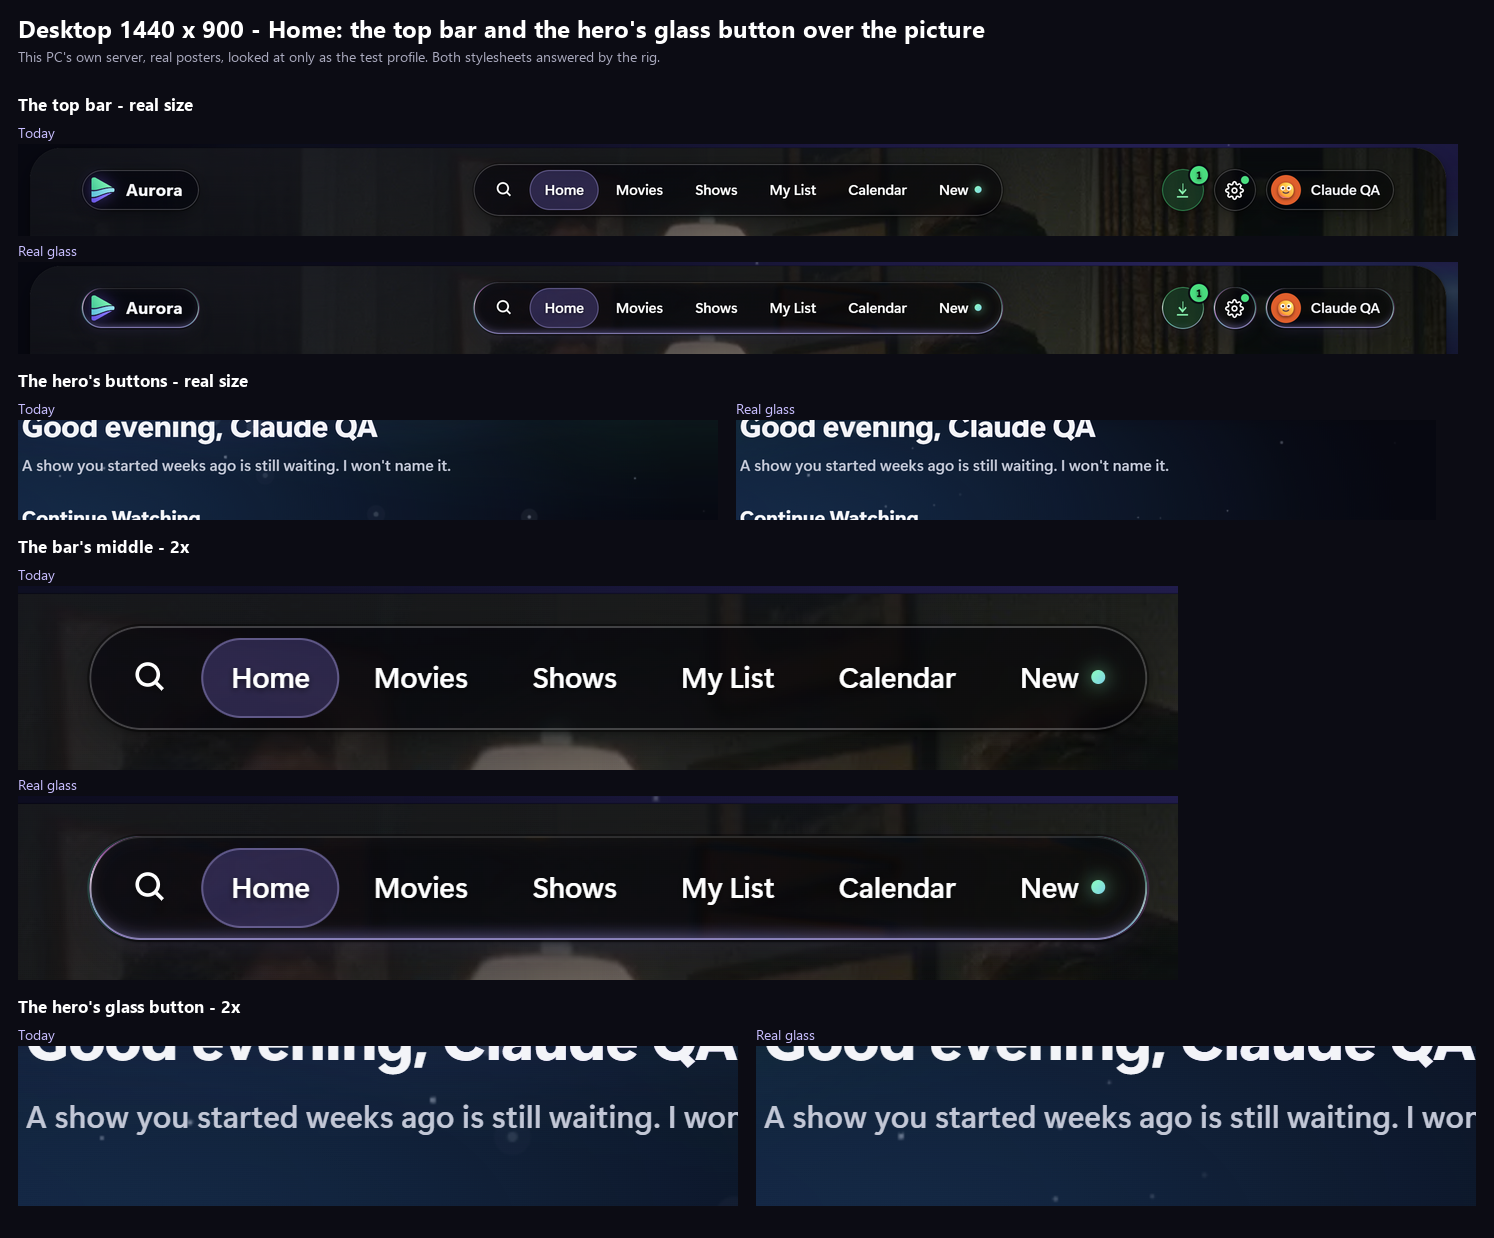
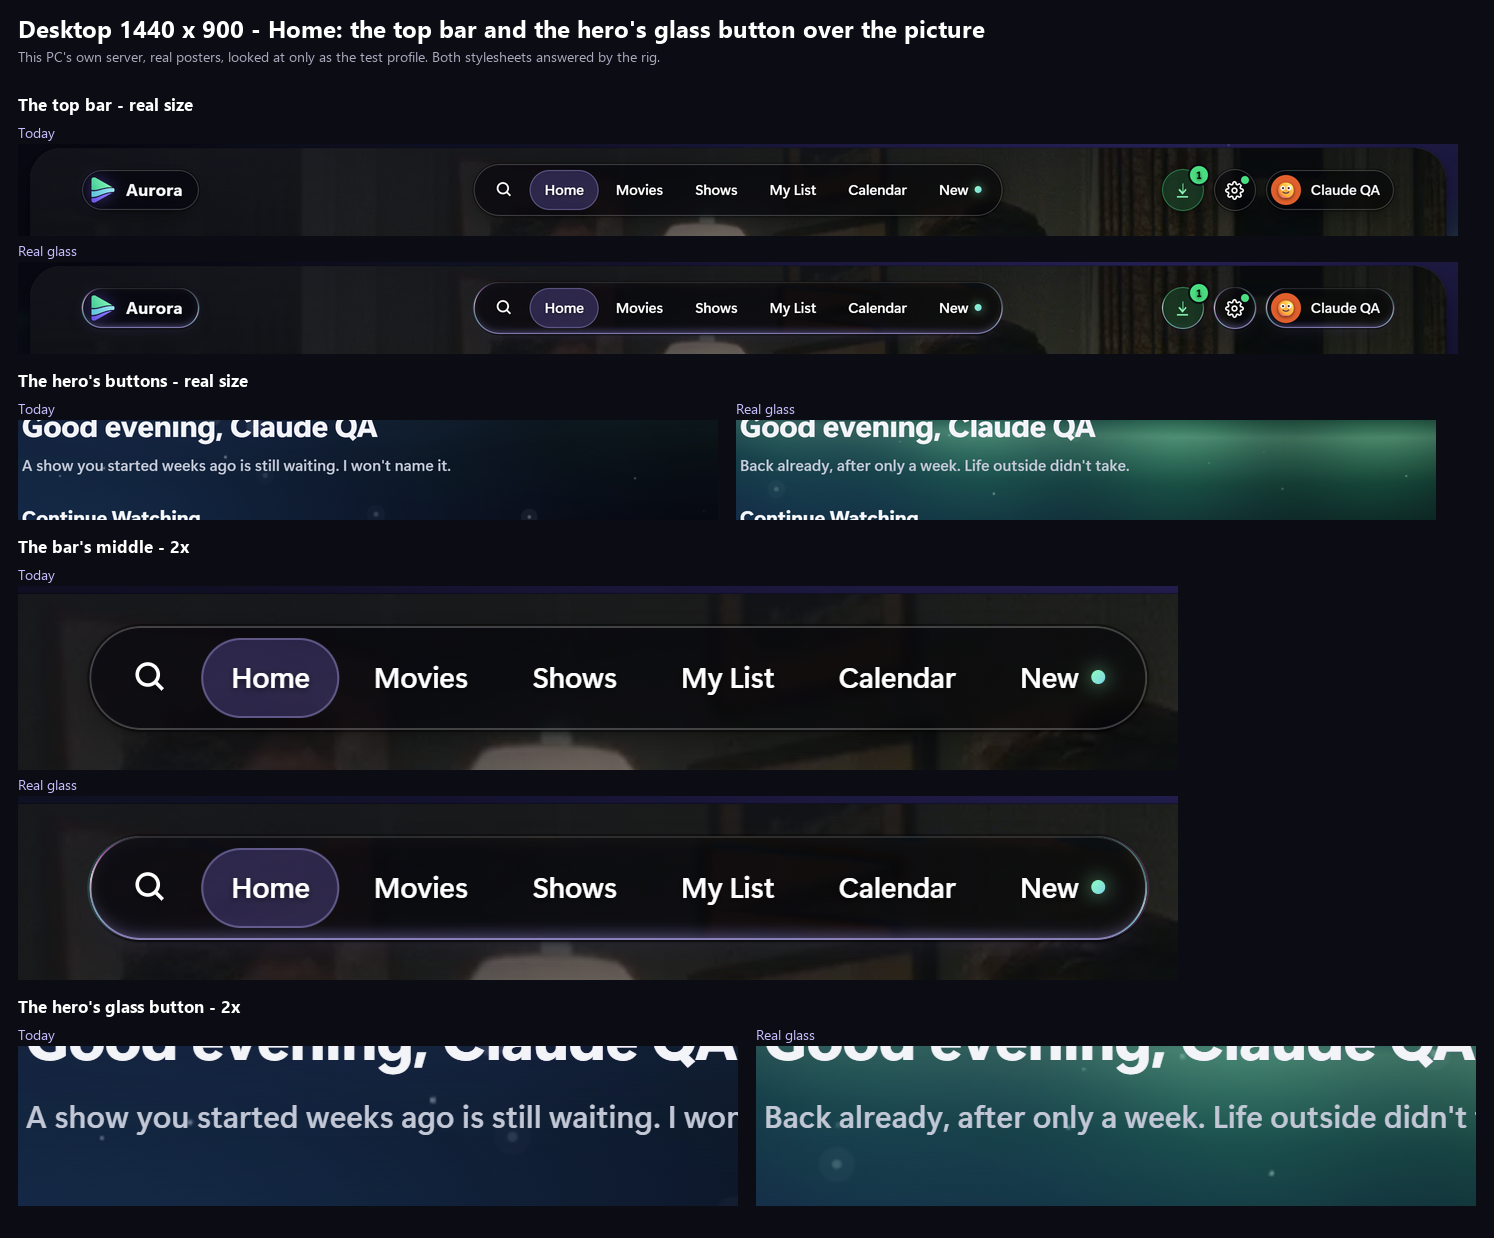
Real glass: a closed player arms no timers; the resting paused glass keeps its frost and dim; the desktop bar's view set less to one side; notes

Changed region(s): [[0.4926, 0.8288, 1.0, 0.9822], [0.4926, 0.3376, 0.9853, 0.4297], [0.9545, 0.2149, 0.9853, 0.2456]]

diff --git a/public/css/glass.css b/public/css/glass.css
@@ -6051,6 +6051,13 @@ html[data-look="glass"] {
 html[data-look="glass"] .nav-items {
   --rg-thick: 1.4;
 }
+/* (a desktop's bar: the view set a little less to one side — at 9 the
+   posters' lettering stood doubled right behind "Calendar" and "New") */
+@media (min-width: 721px) {
+  html[data-look="glass"] .nav-items {
+    --rg-shift: 6.5;
+  }
+}
 /* the bar's body gathers a little more light along its foot */
 html[data-look="glass"] .nav-items {
   --rg-body:
@@ -6162,6 +6169,13 @@ html[data-look="glass"][data-lens] .nav-items,
 html[data-look="glass"][data-lens] .hero-actions .btn:not(.btn-primary) {
   --g-blur: blur(var(--rg-soft)) var(--rg-lens, url(#rg-0)) var(--rg-post);
 }
+@media (min-width: 721px) {
+  html[data-look="glass"][data-lens] .player.is-paused.glass-rest .player-bottom,
+  html[data-look="glass"][data-lens] .player.is-paused.glass-rest .player-top > div,
+  html[data-look="glass"][data-lens] .player.is-paused.glass-rest .player-top .pbtn {
+    --g-blur: blur(var(--rg-soft)) saturate(2) brightness(0.44);
+  }
+}
 /* (No lens under a desktop's pointer: it was tried. The app's own hover
    look fills the button — the round ones turn white — so a lens under the
    pointer cannot be seen.) */
@@ -6171,7 +6185,9 @@ html[data-look="glass"][data-lens] .hero-actions .btn:not(.btn-primary) {
    is worked out again each time: with it the page's processes used 2.8 s
    of processor time in 8 s of playing against 0.74 s without
    (tools/real-glass/player-cost.js). And it rests after ten seconds of
-   nothing moving (.glass-rest): the film stands still, but the page behind
+   nothing moving (.glass-rest: the same frost and the same dim, only the
+   bend goes — the controls stay up while a film is paused, and nothing
+   may jump in front of the person): the film stands still, but the page behind
    the player does not — the sky's two washes (html::before, ::after) and the
    "new" dot's breathing keep the browser drawing frames, and a lens is
    worked out again for each. A phone never blurs the player's chrome, so it

diff --git a/test/glasslens.test.js b/test/glasslens.test.js
@@ -107,6 +107,15 @@ test("the stylesheet shows a url() backdrop only under html[data-lens], and the 
   }
   // the small buttons never take it (nothing but the lists above is in a lens rule)
   for (const x of [".nav-gear", ".nav-dl", ".nav-remote", ".nav-logo", ".nav-profile", ".detail-actions"]) assert.ok(!new RegExp(`\[data-lens\][^{]*\${x}[^{]*\{[^}]*--rg-lens`).test(css), `${x} has no lens`);
+  // the map is a data: image (a CSP img-src without data: would break the lens): said where it is made
+  assert.match(js, /toDataURL\("image\/png"\)/);
+  assert.match(js, /img-src left out data:/);
+  // a resting paused player keeps its frost and its dim: only the url() goes
+  assert.match(css, /\.player\.is-paused\.glass-rest \.player-bottom,[\s\S]{0,400}--g-blur: blur\(var\(--rg-soft\)\) saturate\(2\) brightness\(0\.44\);/);
+  // a closed player arms no timers: its last `pause` arrives after the clean-up
+  const player = fs.readFileSync(path.join(__dirname, "..", "public", "js", "screens", "player.js"), "utf-8");
+  const sc = player.slice(player.indexOf("const showControls = () => {"));
+  assert.ok(sc.indexOf("if (exited) return;") > 0 && sc.indexOf("if (exited) return;") < sc.indexOf("overlay.classList.remove("), "showControls does nothing once the player has been closed");
   // never over a PLAYING film: every lens rule on the player's chrome is under .player.is-paused
   for (const m of css.matchAll(/\[data-lens\]([^{,]*\.(?:player-bottom|player-top|upnext|resume-card|quality-pill|party-pill)[^{,]*)/g)) assert.match(m[1], /\.player\.is-paused/, `a lens over a playing film: ${m[0]}`);
   // and no light along the top of a pane: no positive-y white inset line in the rim

diff --git a/test/ui/glass-lens.test.js b/test/ui/glass-lens.test.js
@@ -128,7 +128,9 @@ ui.test("the player's chrome takes the lens only while the film is paused", asyn
   assert.match(dock.filter, /brightness/, "and still dimmed");
   // ten seconds of nothing moving: the lens rests (the page behind the player still draws frames)
   await page.evaluate(() => document.querySelector(".player").classList.add("glass-rest"));
-  assert.doesNotMatch(await page.evaluate(() => getComputedStyle(document.querySelector(".player-bottom")).backdropFilter), /url\(/, "resting: the plain backdrop");
+  const rest = await page.evaluate(() => getComputedStyle(document.querySelector(".player-bottom")).backdropFilter);
+  assert.doesNotMatch(rest, /url\(/, "resting: no bend");
+  assert.equal(rest.replace(/url\([^)]*\)\s*/, ""), dock.filter.replace(/url\([^)]*\)\s*/, ""), "resting: the same frost and the same dim, so nothing jumps");
   await page.mouse.move(300, 300); await page.mouse.move(320, 320);
   await page.waitForFunction(() => !document.querySelector(".player").classList.contains("glass-rest"), null, { timeout: 4000 });
   // playing again: gone again

diff --git a/public/js/glasslens.js b/public/js/glasslens.js
@@ -192,6 +192,9 @@ const filterFor = (w, h, radius, look) => {
   // docs/qa/real-glass/README.md). The picture bent once per colour copy, the
   // copies put together. Nothing else: its little softening is a plain
   // blur() in the stylesheet, ahead of this filter.
+  // NOTE: the map reaches the filter as a data: image. A Content-Security-
+  // Policy whose img-src left out data: would leave every lens without its
+  // map (test/glasslens.test.js keeps this note honest).
   const f = fe("filter", { id, x: "0", y: "0", width: "100%", height: "100%", "color-interpolation-filters": "sRGB" });
   f.append(fe("feImage", { href: c.toDataURL("image/png"), x: "0", y: "0", width: String(w), height: String(h), preserveAspectRatio: "none", result: "map" }));
   let sum = null;

diff --git a/public/js/screens/player.js b/public/js/screens/player.js
@@ -3596,6 +3596,9 @@ export const renderPlayer = async (root, { id }) => {
   const GLASS_REST_MS = 10000;
   let glassRestTimer = 0;
   const showControls = () => {
+    // (the player has been closed: its last `pause` arrives after the clean-up —
+    // new timers here would hold the closed player and its <video> for ten seconds)
+    if (exited) return;
     overlay.classList.remove("controls-hidden", "hide-cursor", "glass-rest");
     clearTimeout(controlsTimer);
     controlsTimer = setTimeout(hideControls, CONTROLS_IDLE_MS);

diff --git a/docs/qa/real-glass/README.md b/docs/qa/real-glass/README.md
@@ -27,8 +27,8 @@ Sheets: `final5/` (same names as `final4/`, plus `01b-phone-bright`).
 
 The surfaces are the ones that took "Clear": what floats over pictures. A pane now reads as a thick piece of glass:
 
-- **The bar's rim bends the picture** (Chrome, Edge, Android's browsers). The last 15 px or so before the edge of the top bar and of the phone tab bar are a bevel. It shows, turned over and squeezed, a wide band of the picture inside it. The face stays softly frosted, so words read as before.
-- **The colour fringe there is real.** Red is bent more than green and blue less, inside the bevel only: a tenth either way on a phone, 0.12 on a desktop's bar, in three steps. Along the top edge the bevel shows at half strength, so over a white poster nothing reads as a line of light there.
+- **The lens bends the picture across its whole face** (Chrome, Edge, Android's browsers): see the fifth pass above. The last 15 px or so before the edge of the top bar and of the phone tab bar are a bevel that shows the band inside it turned over and squeezed. The face is only lightly frosted (1.4 px), and the dim holds the words.
+- **The colour split is real**, on the face and in the bevel: two copies of the picture, bent 12 % more and 12 % less, the far one giving red and half the green, the near one blue and the other half.
 - **Every pane keeps a still colour split.** One sharp pixel of violet inside the left end of a pane and of mint inside the right, their other halves just outside, swapped. They are crescents: widest at 9 and 3 o'clock, nothing at the top or the foot. Inside / outside strength: 0.36 / 0.22 on bars and text buttons, 0.5 / 0.22 on the small round buttons, 0.30 / 0.18 on a title's icon-only circles.
 - **Every pane has a body.** It is darker towards its top and carries a little violet light towards its foot, so it is not a flat fill.
 - **The rim is dim on top and lit along the foot**, with one small glint on the left shoulder and a fainter answer on the right foot. On a small round button nothing is lit above its middle. There is no light along the top (elia's ruling).
@@ -67,7 +67,7 @@ Measured as the processor time the page's processes use in 8 seconds (`tools/rea
 
 - **The desktop bar's lens now costs under 4 % at rest** (it was 8 % with five colour steps). The medians sit inside today's own run-to-run range, which is about 10 % wide; they are not equal to today's.
 - **Working the bevel out only in its own strips was tried and made it worse**: 16 % with the hero in view and 8.5 % scrolled, against 3.7 % and 3.9 % for one chain over the whole pane. What a lens costs while the picture behind it moves goes with the number of steps in the filter, not with the area they cover, and four strips are four chains. It was taken out.
-- **A paused film.** The film stands still, but the page behind the player does not: the sky's two washes (`html::before` and `::after`, the animations `wash-hi` and `wash-lo`) and the "new" dot's breathing (`g-breathe`) keep the browser drawing frames, with no script involved, and a lens is worked out again for each. The controls do not hide while a film is paused, so the lens now rests after ten seconds of nothing moving (`.player.glass-rest`); any motion brings it back. After that a paused film costs what it costs today.
+- **A paused film** (fourth pass; the fifth keeps the frost and the dim while resting and drops only the bend, so nothing jumps). The film stands still, but the page behind the player does not: the sky's two washes (`html::before` and `::after`, the animations `wash-hi` and `wash-lo`) and the "new" dot's breathing (`g-breathe`) keep the browser drawing frames, with no script involved, and a lens is worked out again for each. The controls do not hide while a film is paused, so the lens now rests after ten seconds of nothing moving (`.player.glass-rest`); any motion brings it back. After that a paused film costs what it costs today.
 
 On a phone (390 × 844, CPU ×4, `final4/perf-phone.json`):
 
@@ -79,21 +79,21 @@ On a phone (390 × 844, CPU ×4, `final4/perf-phone.json`):
 
 ## Words on the glass
 
-Measured again with `tools/glass-options/contrast.js` (the dimmest 1 % behind each word, over a white poster, a bright poster, mid grey, white text, a bright sky band and black; a white frame for the player), with the body's two gradients in place. Every real-glass surface reads the same as today, to a tenth:
+Measured with `tools/glass-options/contrast.js` on the fifth pass (the dimmest 1 % behind each word, over a white poster, a bright poster, mid grey, white text, a bright sky band and black; a white frame for the paused player), with the lighter frost and the whole-face lens in place:
 
 | surface | lowest, today | lowest, real glass |
 |---|---:|---:|
 | phone tab bar, words / chosen tab | 6.3 / 5.4 | 6.3 / 5.4 |
 | phone top buttons | 5.8 | 5.8 |
 | desktop and tablet top bar, words / chosen tab | 5.3 / 5.1 | 5.3 / 5.1 |
-| glass buttons on a title's page, quiet words | 5.7 | 5.7 |
-| the player's dock and pills | 4.7 | 4.7 |
+| the paused player's dock: words / second voice | 4.7 / 5.1 | 6.0 / 5.2 |
+| the player on a phone (no lens) | 4.7 | 4.7 |
 
-The cells under 4.5:1 are on surfaces this work did not touch (a chip's count, the season bar and a Settings pane's icons over a sky painted as one bright band), with the same numbers on both sides.
+The paused player's lens is a step dimmer than the bar's (0.44): with less frost a bright frame's sharp edges passed under the clock (4.4:1 at 0.5). The cells under 4.5:1 are on surfaces this work did not touch (a chip's count, the season bar over a sky painted as one bright band), the same on both sides.
 
 ## How it is made
 
-**The lens** (`public/js/glasslens.js`, Chromium only) is an SVG filter inside `backdrop-filter`: a displacement map, applied once per colour step with a slightly different strength, laid over a 3 px frosted copy of the backdrop. A map is drawn once per size of surface, at half the surface's size. The maps of surfaces that only show their lens at times are drawn at an idle moment. `ResizeObserver` says when a size changes; a window being dragged is fitted when it rests. Nothing runs per frame.
+**The lens** (`public/js/glasslens.js`, Chromium only) is an SVG filter inside `backdrop-filter`: a plain 1.4 px `blur()`, then a displacement map applied once per colour copy with a slightly different strength (two copies), the copies added together. The map is handed to the filter as a `data:` image, so a Content-Security-Policy whose `img-src` left out `data:` would break it. A map is drawn once per size of surface, at half the surface's size. The maps of surfaces that only show their lens at times are drawn at an idle moment. `ResizeObserver` says when a size changes; a window being dragged is fitted when it rests. Nothing runs per frame.
 
 **The rest** (`public/css/glass.css`, the last section, "Real glass") is plain CSS and the same in every browser: box shadows for the split, the depth and the pool, two still gradients for the body, and one masked 1 px ring (`::before`) for the rim and its glint. `screens/player.js` sets `.is-paused` on the player on the video's own play and pause.
 
